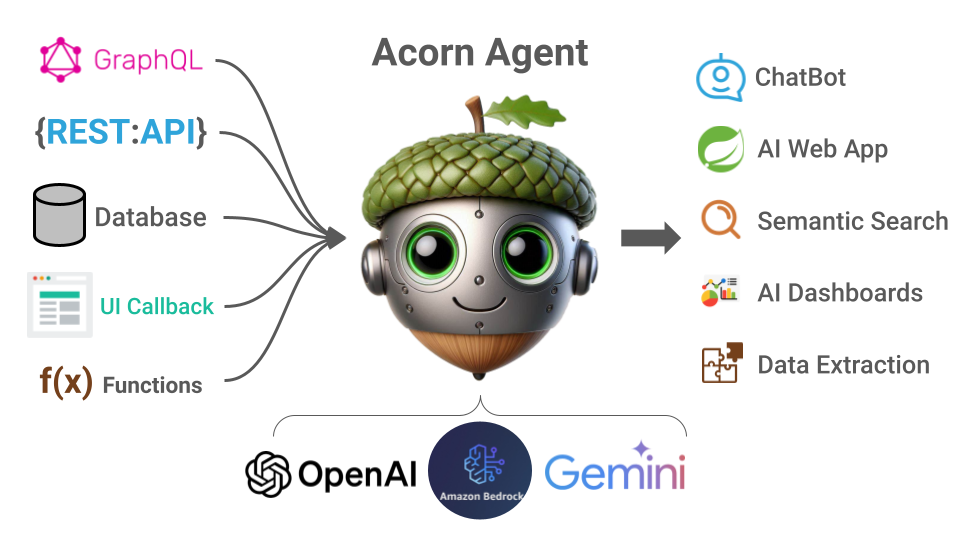
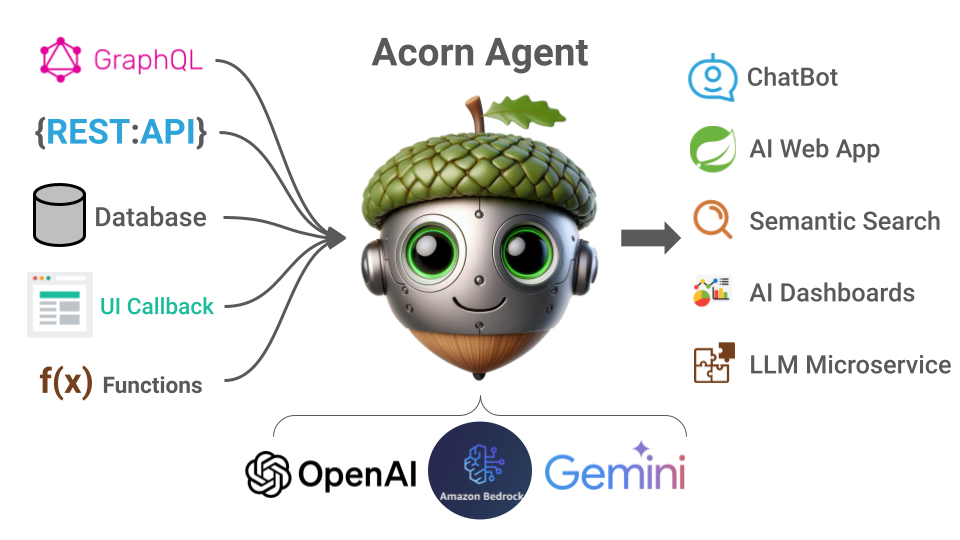
Minor update to README.md

diff --git a/README.md b/README.md
@@ -1,6 +1,6 @@
 # Acorn Agent
 
-Acorn Agent is a simple yet flexible framework for building AI Agents, Chat Bots, and generative AI applications on the JVM. It seamlessly integrates (semi-)structured data from various external sources—such as APIs, databases, and function calls—with generative AI models to deliver high-quality results tailored to your data.
+Acorn Agent is a simple yet flexible framework for building AI Agents, Chat Bots, and LLM microservices on the JVM. It seamlessly integrates (semi-)structured data from various external sources—such as APIs, databases, and function calls—with generative AI models to deliver high-quality results tailored to your data.
 
 ![Acorn Agent Connects Data with LLMs](img/overview.png)
 
@@ -89,7 +89,7 @@ We built Acorn Agent based on the realization that:
 * Advanced LLMs excel at understanding user requests better than any external augmentation.
 * LLMs are trained to use tools, making this a natural interface for executing actions and retrieving information.
 
-As LLMs improve, "tooling" will become the primary interface for LLM interactions. Building GenAI applications around tools ensures simplicity, flexibility, and future-proofing, as LLMs will only get better at using tools.
+As LLMs improve, "tooling" will become the primary interface for LLM interactions. Building LLM applications around tools ensures simplicity, flexibility, and future-proofing, as LLMs will only get better at using tools.
 
 ## Community
 
